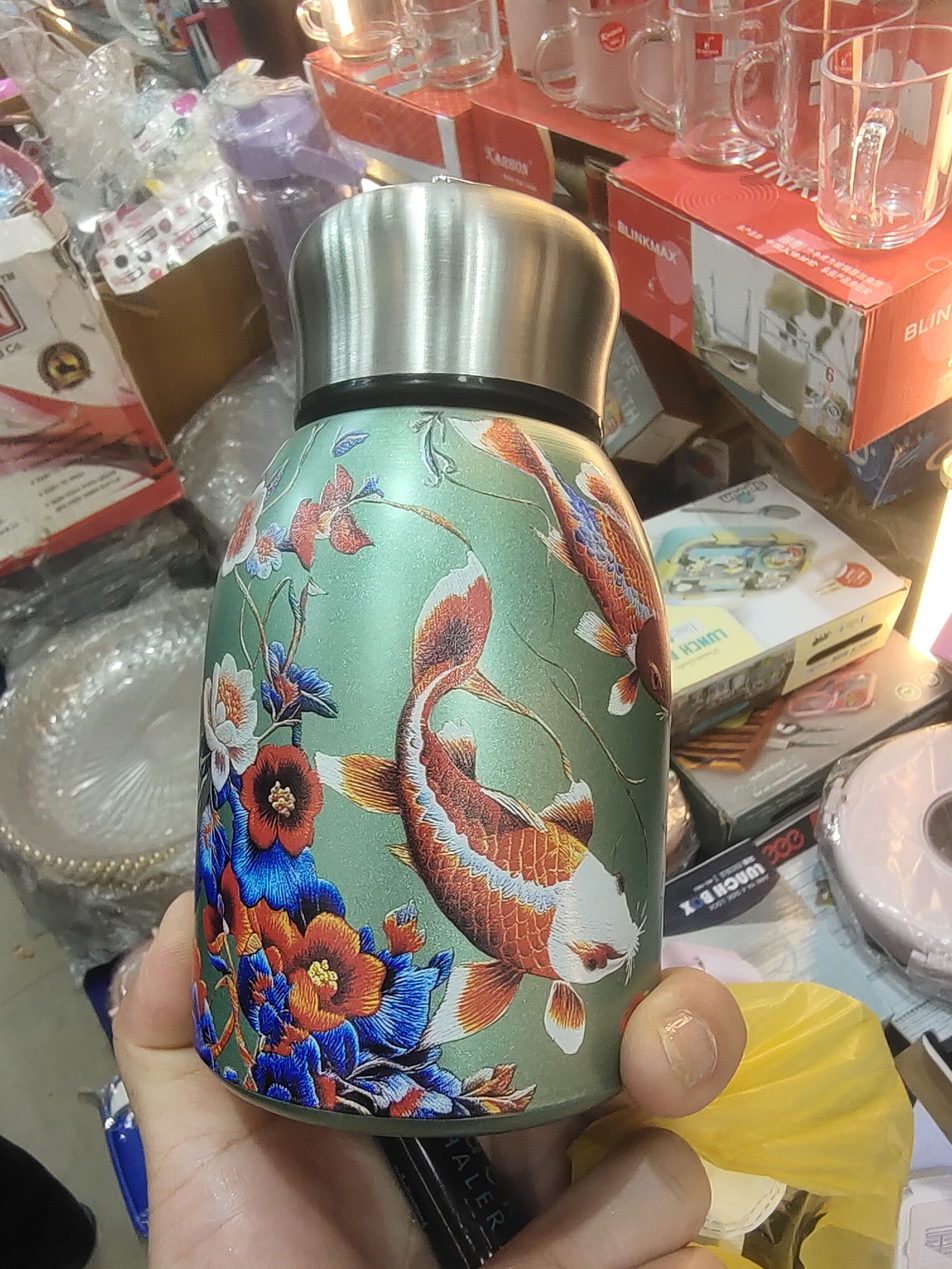
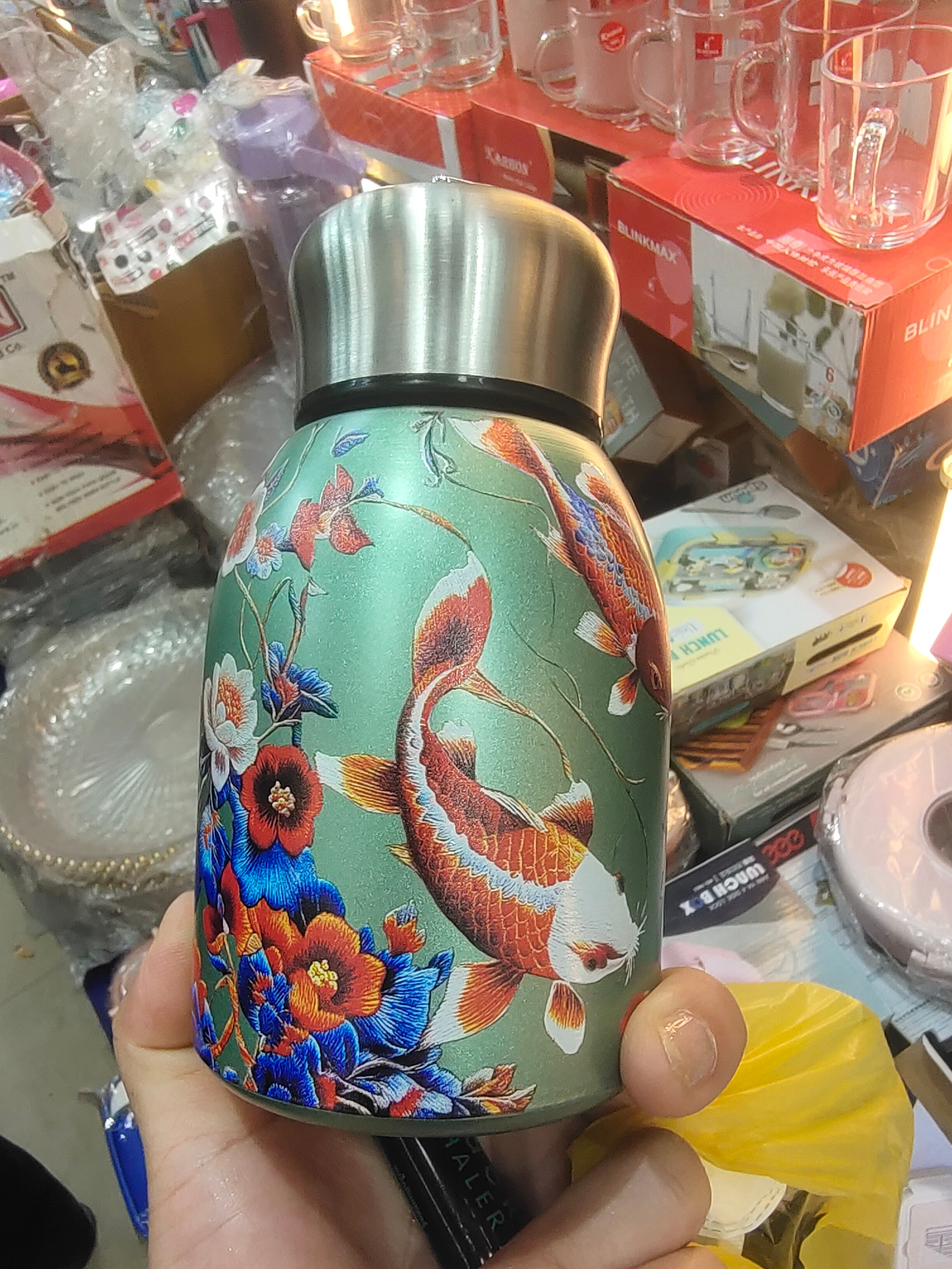
Fix the owner's product edits so the store builds again
- flowers: keep the one photo that was uploaded (nine were never added)
  and write its prices as an amounts list, the format the build reads
- name the insulated tumbler and the leaf hair clips, which had no name
- strip EXIF from three product photos
- give footer links a 24px minimum width; the Hindi "Home" link was
  narrower than the touch-target minimum

diff --git a/src/styles/main.css b/src/styles/main.css
@@ -1400,6 +1400,7 @@ select { padding-right: 2.2rem; }
   align-items: center;
   gap: 0.5rem;
   min-height: 40px;
+  min-width: 24px;
   color: var(--text);
   text-decoration: none;
 }
